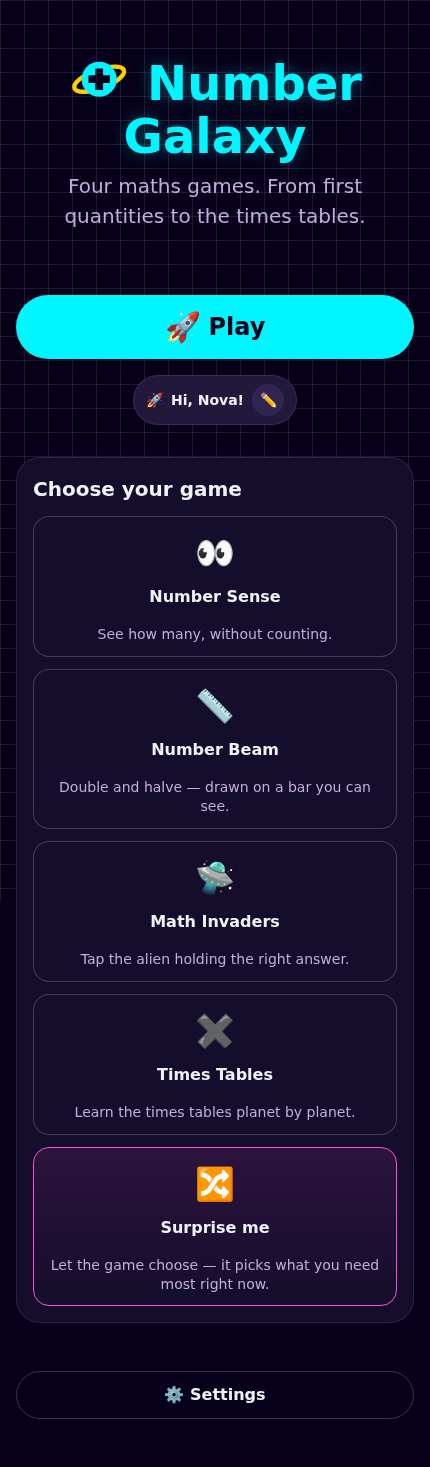
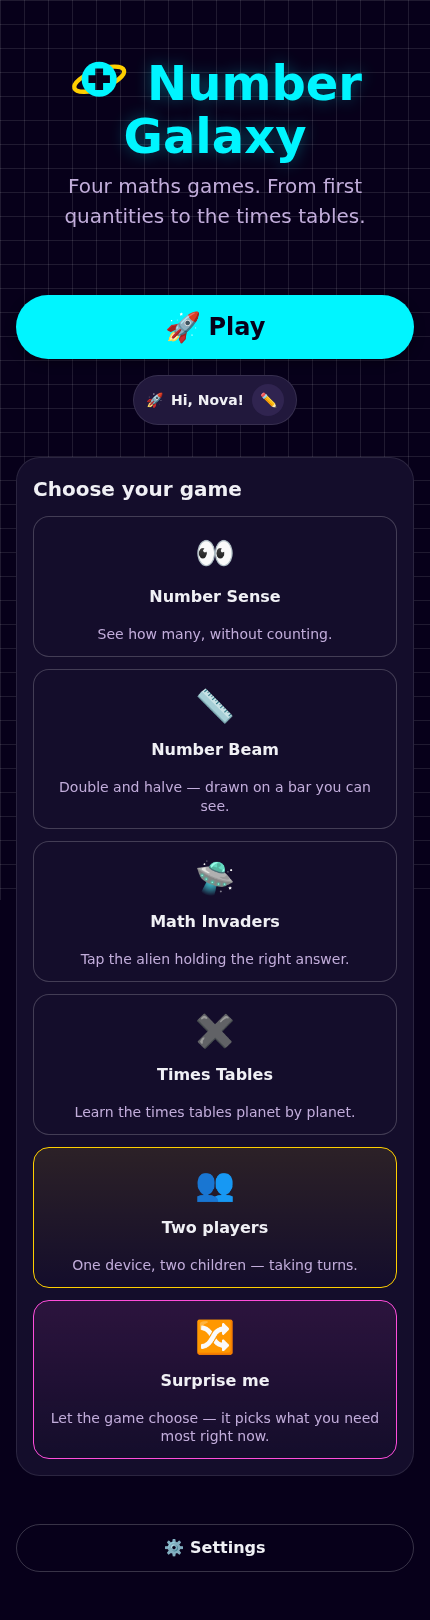
feat(home): give two players its own card in the picker
A two-player round was reachable only from inside Math Invaders, one level
down and below the fold — so the one mode that needs a second child to be
invited was the hardest one to find. It is now a card in the picker, beside
the four games, and the arcade's duplicate button is gone rather than left as
a second door.

The card navigates straight to the round instead of going through `openGame`,
for two reasons worth recording. A round needs no profile: it types its own
two names and records nothing. And `gameRouteOf` prefix-matches, so
`/game/two` resolves to the arcade — routing the card through `openGame`
would have left "keep playing" offering a solo mission the child never opened.
A test now holds that.

Back accordingly returns home from the setup screen and from a round, rather
than to the arcade nobody opened to get here.

It reuses `duel.title` and `duel.blurb`, which all four languages already
carry, so the tile costs no new translation keys. It is tinted gold — the one
card a child cannot act on alone deserves to look unlike the four they can,
and gold keeps it tellable from the pink Surprise card.

Two selectors needed tightening, both for the same reason: "Two players"
contains the substring "Play", which made the home page's Play button
ambiguous in testing-library and in Playwright.

diff --git a/web/src/pages/HomePage.test.tsx b/web/src/pages/HomePage.test.tsx
@@ -32,7 +32,8 @@ describe('HomePage', () => {
         renderWithRouter(<HomePage />)
 
         // It read "Keep playing" and did nothing at all once a profile existed.
-        await user.click(screen.getByRole('button', { name: /play/i }))
+        // Matched exactly, because "Two players" also contains "play".
+        await user.click(screen.getByRole('button', { name: 'Play' }))
         expect(screen.getByTestId(LOCATION_TEST_ID)).toHaveTextContent('/number-sense')
     })
 
@@ -76,14 +77,37 @@ describe('HomePage', () => {
         seedPlayer()
         renderWithRouter(<HomePage />)
 
-        const cards = [...document.querySelectorAll('.game-picker__card:not(.game-picker__card--surprise)')]
-            .map(card => card.textContent ?? '')
+        const cards = [...document.querySelectorAll(
+            '.game-picker__card:not(.game-picker__card--surprise):not(.game-picker__card--duel)',
+        )].map(card => card.textContent ?? '')
 
         expect(cards).toHaveLength(4)
         expect(cards[0]).toContain('Number Sense')
         expect(cards[1]).toContain('Number Beam')
         expect(cards[2]).toContain('Math Invaders')
         expect(cards[3]).toContain('Times Tables')
+    })
+
+    it('offers a two-player round from the picker, rather than only from inside the arcade', async () => {
+        seedPlayer()
+        const user = userEvent.setup({ delay: null })
+        renderWithRouter(<HomePage />)
+
+        await user.click(screen.getByRole('button', { name: /Two players/ }))
+        expect(screen.getByTestId(LOCATION_TEST_ID)).toHaveTextContent('/game/two')
+    })
+
+    it('does not let a two-player round become the game to keep playing', async () => {
+        seedPlayer()
+        const user = userEvent.setup({ delay: null })
+        renderWithRouter(<HomePage />)
+
+        await user.click(screen.getByRole('button', { name: /Two players/ }))
+
+        // `gameRouteOf('/game/two')` answers with the arcade, so sending this card
+        // through `openGame` would offer to keep playing a solo mission nobody ran
+        // — and the round itself is recorded nowhere by design.
+        expect(store.getLastGame()).toBeNull()
     })
 
     it('keeps the rules in the games rather than stacked on the way to them', () => {

diff --git a/web/src/pages/DuelPlayPage.tsx b/web/src/pages/DuelPlayPage.tsx
@@ -120,7 +120,7 @@ export default function DuelPlayPage() {
         const shared = duelCombined(duel)
         return (
             <div className="page">
-                <TopBar back={{ label: t.duel.exit, to: '/game' }} title={`👥 ${t.duel.title}`} />
+                <TopBar back={{ label: t.duel.exit, to: '/' }} title={`👥 ${t.duel.title}`} />
                 <main className="shell">
                     <section className="panel duel-result">
                         <h2 className="panel__title">{t.duel.roundOver}</h2>
@@ -161,7 +161,7 @@ export default function DuelPlayPage() {
                             <button type="button" className="btn btn--primary" onClick={restart}>
                                 {t.duel.again}
                             </button>
-                            <button type="button" className="btn btn--ghost" onClick={() => navigate('/game')}>
+                            <button type="button" className="btn btn--ghost" onClick={() => navigate('/')}>
                                 {t.duel.exit}
                             </button>
                         </div>
@@ -173,7 +173,7 @@ export default function DuelPlayPage() {
 
     return (
         <div className="page page--game">
-            <TopBar back={{ label: t.duel.exit, to: '/game' }} title={`👥 ${t.duel.title}`} />
+            <TopBar back={{ label: t.duel.exit, to: '/' }} title={`👥 ${t.duel.title}`} />
 
             <main className="stage">
                 <PlayHud

diff --git a/web/src/pages/HomePage.tsx b/web/src/pages/HomePage.tsx
@@ -165,6 +165,20 @@ export default function HomePage() {
                                 )}
                             </button>
                         ))}
+                        {/* Navigated directly rather than through `openGame`: a round
+                            here records nothing and types its own two names, so it
+                            needs no profile — and `gameRouteOf('/game/two')` resolves
+                            to the arcade, which would leave "keep playing" pointing at
+                            a solo mission the child never opened. */}
+                        <button
+                            type="button"
+                            className="game-picker__card game-picker__card--duel"
+                            onClick={() => navigate('/game/two')}
+                        >
+                            <span className="game-picker__emoji" aria-hidden="true">👥</span>
+                            <strong>{t.duel.title}</strong>
+                            <small>{t.duel.blurb}</small>
+                        </button>
                         <button
                             type="button"
                             className="game-picker__card game-picker__card--surprise"

diff --git a/web/e2e/game.spec.ts b/web/e2e/game.spec.ts
@@ -15,7 +15,7 @@ test('shows the game picker before anyone is named, and Play goes somewhere', as
     await expect(page.getByRole('heading', { name: 'Choose your game' })).toBeVisible()
     await expect(page.getByRole('button', { name: 'Math Invaders' })).toBeVisible()
 
-    await page.getByRole('button', { name: 'Play' }).click()
+    await page.getByRole('button', { name: 'Play', exact: true }).click()
     await expect(page).toHaveURL(/\/number-sense/)
 })
 
@@ -166,7 +166,7 @@ test('fires tiles with digits and moves the roving answer focus with arrows', as
 
 test('plays a two-player round without leaving a trace on either profile', async ({ page }) => {
     await seedStorage(page, { settings: untimed, player })
-    await gotoApp(page, '/game')
+    await gotoApp(page)
     await page.getByRole('button', { name: /Two players/ }).click()
 
     await page.getByLabel('Child 1').fill('Nova')

diff --git a/web/src/styles/duel.css b/web/src/styles/duel.css
@@ -1,4 +1,14 @@
-/* Two players — the setup screen, the handover and the shared result. */
+/* Two players — the home tile, the setup screen, the handover and the shared result. */
+
+/* Tinted apart from the four games because it is the one card a child cannot
+   act on alone: it needs somebody else to sit down. Gold rather than the
+   Surprise card's pink, so the two special cards stay tellable apart. */
+.game-picker__card--duel {
+  border-color: var(--color-gold);
+  background: linear-gradient(180deg, rgba(255, 207, 0, .1), transparent);
+}
+
+.game-picker__card--duel:hover { border-color: var(--color-gold); }
 
 .duel-names {
   display: grid;

diff --git a/web/src/pages/DuelPlayPage.test.tsx b/web/src/pages/DuelPlayPage.test.tsx
@@ -169,12 +169,13 @@ describe('DuelPlayPage', () => {
         expect(screen.queryByText('Done together')).not.toBeInTheDocument()
     })
 
-    it('leaves the round for the arcade when asked', () => {
+    it('leaves the round for home, which is where the round was started from', () => {
         open('together')
         playRound(() => true)
 
         fireEvent.click(screen.getByRole('button', { name: 'Back' }))
 
-        expect(screen.getByTestId(LOCATION_TEST_ID)).toHaveTextContent('/game')
+        // Compared whole: '/' is a substring of every other route.
+        expect(screen.getByTestId(LOCATION_TEST_ID).textContent).toBe('/')
     })
 })

diff --git a/web/src/pages/ArcadePage.tsx b/web/src/pages/ArcadePage.tsx
@@ -68,10 +68,6 @@ export default function ArcadePage() {
                     {t.home.play}
                 </button>
 
-                <button type="button" className="btn btn--ghost btn--wide" onClick={() => navigate('/game/two')}>
-                    👥 {t.duel.title}
-                </button>
-
                 <nav className="home-nav">
                     <button type="button" className="btn btn--ghost" onClick={() => navigate('/hall-of-fame')}>
                         🏆 {t.nav.hallOfFame}

diff --git a/web/src/pages/ArcadePage.test.tsx b/web/src/pages/ArcadePage.test.tsx
@@ -65,11 +65,4 @@ describe('ArcadePage', () => {
         expect(screen.getByTestId(LOCATION_TEST_ID)).toHaveTextContent('/settings')
     })
 
-    it('opens a two-player round from the arcade front door', async () => {
-        const user = userEvent.setup({ delay: null })
-        renderWithRouter(<ArcadePage />)
-
-        await user.click(screen.getByRole('button', { name: /Two players/ }))
-        expect(screen.getByTestId(LOCATION_TEST_ID)).toHaveTextContent('/game/two')
-    })
 })

diff --git a/web/src/pages/DuelSetupPage.tsx b/web/src/pages/DuelSetupPage.tsx
@@ -38,7 +38,7 @@ export default function DuelSetupPage() {
 
     return (
         <div className="page">
-            <TopBar back={{ label: t.duel.exit, to: '/game' }} title={`👥 ${t.duel.title}`} />
+            <TopBar back={{ label: t.duel.exit, to: '/' }} title={`👥 ${t.duel.title}`} />
 
             <main className="shell">
                 <section className="panel">

diff --git a/README.md b/README.md
@@ -18,7 +18,7 @@
 **[✖ Times tables](#-times-tables--the-multiplication-trainer)** ·
 **[🛠 Development](docs/DEVELOPMENT.md)**
 
-![The home page, with the four games and the Surprise card](./docs/math-invaders-home.png)
+![The home page, with the four games, Two players and the Surprise card](./docs/math-invaders-home.png)
 
 ---
 
@@ -322,8 +322,8 @@ belongs to this game, so the other three do not link to it.
 
 ## 👥 Two players — one device
 
-Reached from the Math Invaders screen. There is no server and never will be, so a second
-player is the one sitting next to the first.
+Its own card on the home page, beside the four games. There is no server and never will
+be, so a second player is the one sitting next to the first.
 
 ![A two-player round pausing to hand the device over, with both tallies on the board](./docs/math-invaders-two-players.png)
 
@@ -733,7 +733,7 @@ practises never changes what another is given — and nobody sees anybody else's
 Language and sound are shared, because those belong to the household rather than the child.
 
 **Can two children play at once?**
-Yes — **👥 Two players** on the Math Invaders screen. They share one device and take turns,
+Yes — **👥 Two players**, its own card on the home page. They share one device and take turns,
 with a handover screen before every question. The round is not saved to anybody's profile,
 on purpose: see [Two players](#-two-players--one-device).
 
